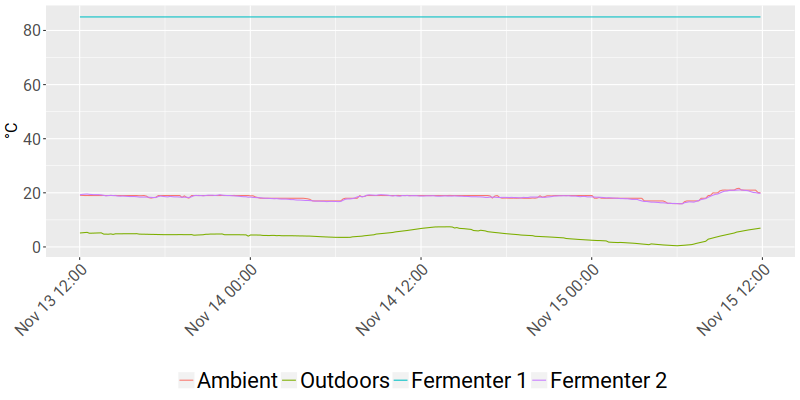
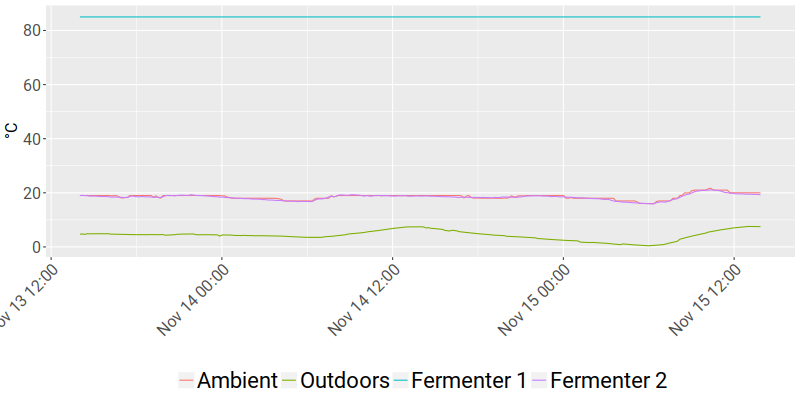
Update live temperature on site

diff --git a/temperature.js b/temperature.js
@@ -1,1 +1,1 @@
-document.write("<h4>Inside Temperature: 20.0°C</h4><h4>Outside Temperature: 6.96°C</h4><h4>Fermenter 1 Temperature: 85.0°C</h4><h4>Fermenter 2 Temperature: 19.81°C</h4><h4>Inside Humidity: 25.45%</h4><h4>Outside Humidity: 54.0%</h4><br>Last update: 2017-11-15 11:51:57");
+document.write("<h4>Inside Temperature: 20.0°C</h4><h4>Outside Temperature: 7.51°C</h4><h4>Fermenter 1 Temperature: 85.0°C</h4><h4>Fermenter 2 Temperature: 19.31°C</h4><h4>Inside Humidity: 21.57%</h4><h4>Outside Humidity: 53.0%</h4><br>Last update: 2017-11-15 13:51:11");
